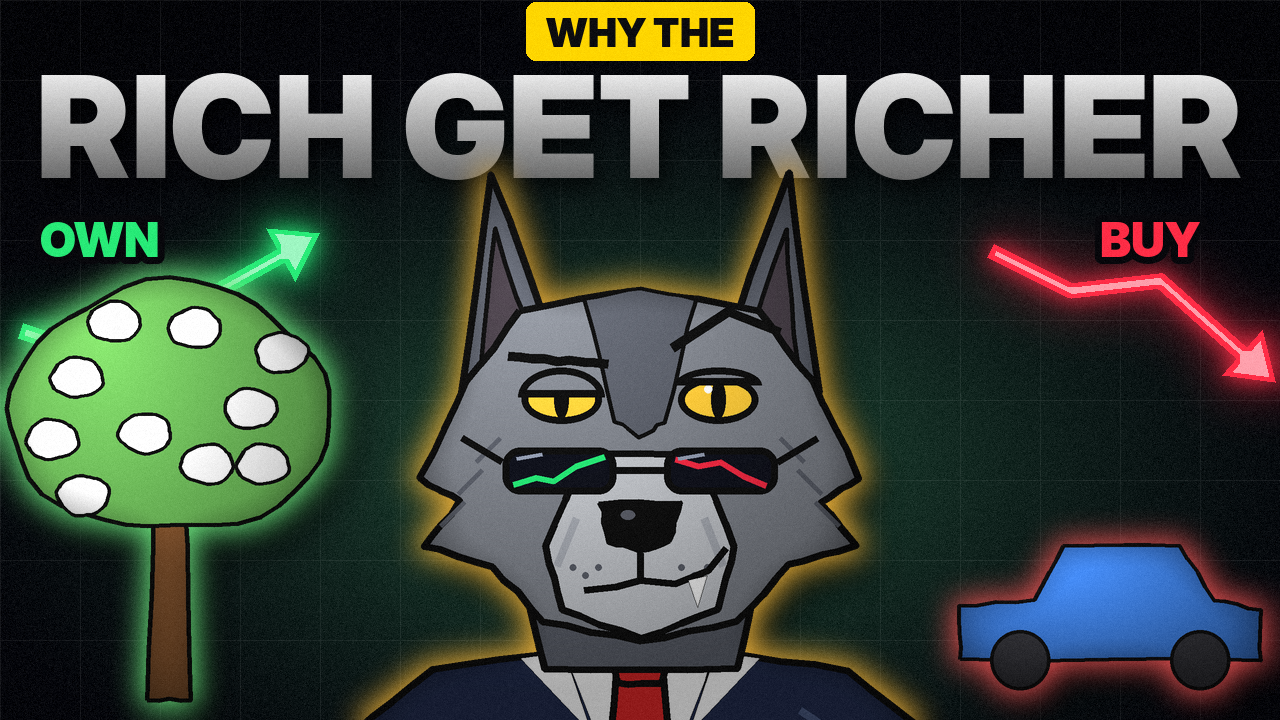
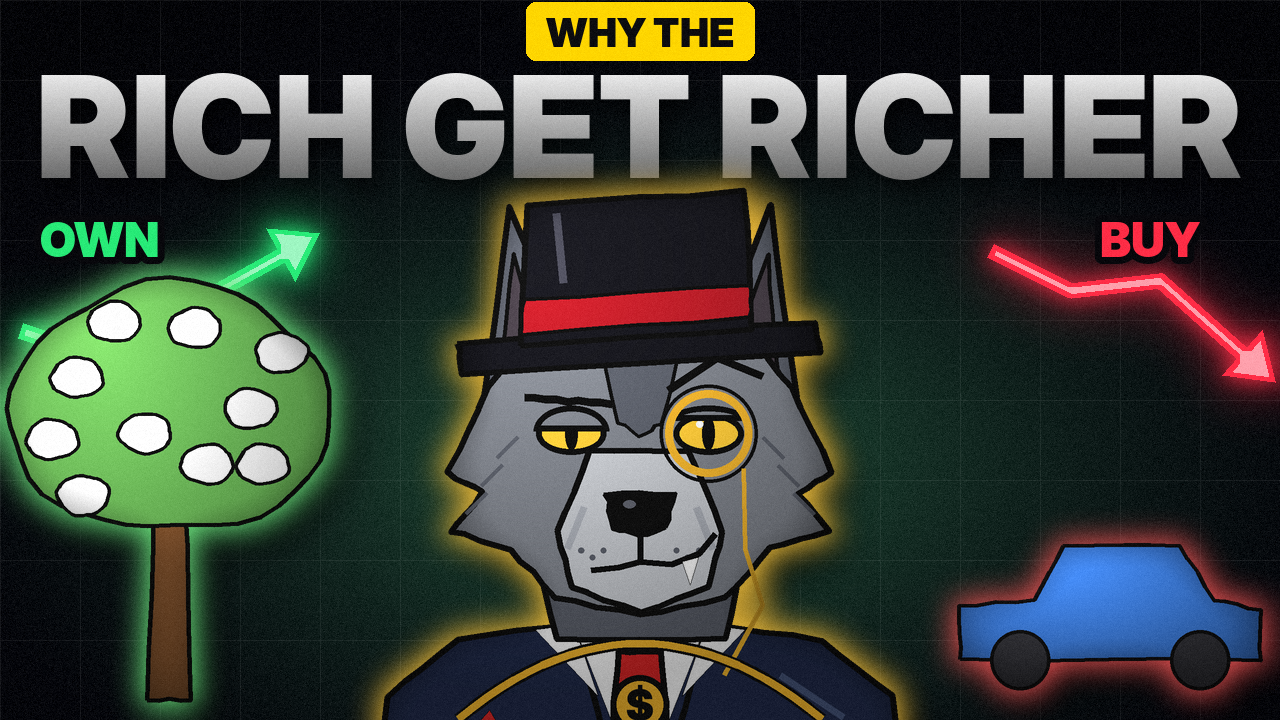
Wolf portrait costumes (top hat, monocle, gold chain); EP04 rich-wolf thumbnail
Claude-Session: https://claude.ai/code/session_01UfLUgJczAYJw2VoQ5ySqhd

Changed region(s): [[0.25, 0.2139, 0.75, 1.0]]

diff --git a/youtube/kit/thumbs.py b/youtube/kit/thumbs.py
@@ -108,7 +108,8 @@ def preview(paths, out):
     o.save(out)
 
 
-def wolf_portrait(d, cx, cy, s=1.0, lens=True, mood="smirk", glasses="on"):
+def wolf_portrait(d, cx, cy, s=1.0, lens=True, mood="smirk", glasses="on", hat=None, monocle=False, chain=False):
+    """glasses: on / down / none. hat: None / top (цилиндр). monocle, chain — реквизит «богача»."""
     """Волк анфас для обложек: голова и плечи, тёмные очки с отражением графиков, хитрая ухмылка.
     cx, cy — центр головы. Никаких вытянутых рук — только портрет."""
     sh, wob, INK = W.shape, W.wob, (17, 17, 17)
@@ -159,15 +160,15 @@ def wolf_portrait(d, cx, cy, s=1.0, lens=True, mood="smirk", glasses="on"):
     elif mood == "shock":
         sh(d, wob(cx, cy + 165 * s, 30 * s, 28 * s, seed=218), (90, 26, 32), lw)
     # глаза (видны, если очки приспущены): жёлтые, хитрые, с полуприкрытым веком
-    if glasses == "down":
+    if glasses in ("down", "none"):
         for k, open_ in ((-1, 0.55), (1, 0.8)):
-            ex, ey = k * 98, -88
+            ex, ey = k * 98, (-88 if glasses == "down" else -45)
             d.ellipse([P(ex - 50, ey - 30), P(ex + 50, ey + 30)], fill=(255, 205, 60), outline=INK, width=lw)
             d.ellipse([P(ex - 9, ey - 24), P(ex + 9, ey + 24)], fill=INK)                       # вертикальный зрачок
             d.ellipse([P(ex - 18, ey - 18), P(ex - 8, ey - 8)], fill=(255, 255, 255))           # блик
             lid = ey - 30 + 60 * (1 - open_)                                                   # тяжёлое верхнее веко
             d.chord([P(ex - 54, ey - 40), P(ex + 54, lid * 2 - (ey - 40))], 180, 360, fill=GREY, outline=INK, width=lw)
-        lens_box = [(-172, -28, -30, 30), (30, -28, 172, 30)]
+        lens_box = [(-172, -28, -30, 30), (30, -28, 172, 30)] if glasses == "down" else []
         bridge_y, arm_y = 0, -10
     else:
         lens_box = [(-185, -78, -22, 18), (22, -78, 185, 18)]
@@ -180,13 +181,32 @@ def wolf_portrait(d, cx, cy, s=1.0, lens=True, mood="smirk", glasses="on"):
             pp = [P(x0 + (x1 - x0) * u, y0 + (y1 - y0) * v) for u, v in pts]
             d.line(pp, fill=col, width=max(3, int(8 * s)), joint="curve")
         d.line([P(x0 + 18, y0 + 14), P(x0 + 50, y0 + 8)], fill=(150, 160, 180), width=max(2, int(5 * s)))   # блик
-    d.line([P(lens_box[0][2], bridge_y), P(lens_box[1][0], bridge_y)], fill=INK, width=lw)   # перемычка
-    for k in (-1, 1):
-        d.line([P(k * lens_box[1][2], arm_y), P(k * 222, arm_y - 30)], fill=INK, width=lw)    # дужки
+    if lens_box:
+        d.line([P(lens_box[0][2], bridge_y), P(lens_box[1][0], bridge_y)], fill=INK, width=lw)   # перемычка
+        for k in (-1, 1):
+            d.line([P(k * lens_box[1][2], arm_y), P(k * 222, arm_y - 30)], fill=INK, width=lw)    # дужки
     # брови: левая ровная, правая поднята — «самодовольный» взгляд
-    by = -40 if glasses == "down" else 0
+    by = -40 if glasses == "down" else (5 if glasses == "none" else 0)
     W.line(d, P(-165, -102 + by), P(-40, -92 + by), max(5, int(12 * s)), seed=219)
     d.line([P(40, -112 + by), P(110, -158 + by), P(175, -132 + by)], fill=INK, width=max(5, int(12 * s)), joint="curve")
+
+    GOLD_ = (242, 182, 48)
+    if monocle:                                  # монокль на правом глазу + цепочка к лацкану
+        ex, ey = 98, (-88 if glasses == "down" else -45)
+        d.ellipse([P(ex - 62, ey - 62), P(ex + 62, ey + 62)], outline=GOLD_, width=max(4, int(12 * s)))
+        d.ellipse([P(ex - 70, ey - 70), P(ex + 70, ey + 70)], outline=INK, width=max(2, int(5 * s)))
+        d.line([P(ex + 50, ey + 50), P(150, 120), P(175, 200), P(120, 300)], fill=GOLD_, width=max(3, int(7 * s)), joint="curve")
+    if chain:                                    # золотая цепь на груди
+        pts = [P(x, 255 + 0.0016 * x * x) for x in range(-260, 261, 20)]
+        d.line(pts, fill=INK, width=max(6, int(18 * s)), joint="curve")
+        d.line(pts, fill=GOLD_, width=max(4, int(11 * s)), joint="curve")
+        d.ellipse([P(-42, 300), P(42, 384)], fill=GOLD_, outline=INK, width=lw)
+        d.text(P(0, 342), "$", font=F(int(60 * s)), fill=INK, anchor="mm")
+    if hat == "top":                             # цилиндр, чуть набок
+        sh(d, [P(-260, -175), P(250, -205), P(256, -160), P(-254, -130)], (24, 24, 30), lw, seed=250)   # поля
+        sh(d, [P(-170, -170), P(160, -196), P(150, -390), P(-160, -372)], (24, 24, 30), lw, seed=251)   # тулья
+        sh(d, [P(-166, -235), P(156, -258), P(158, -210), P(-168, -186)], (180, 30, 40), max(3, int(6 * s)), seed=252)  # лента
+        d.line([P(-120, -360), P(-110, -260)], fill=(70, 70, 82), width=max(3, int(12 * s)))   # блик
 
 
 def wolf_holds_bill(d, cx, cy, s=1.0, text="$100", mood="smirk", glasses="down"):
